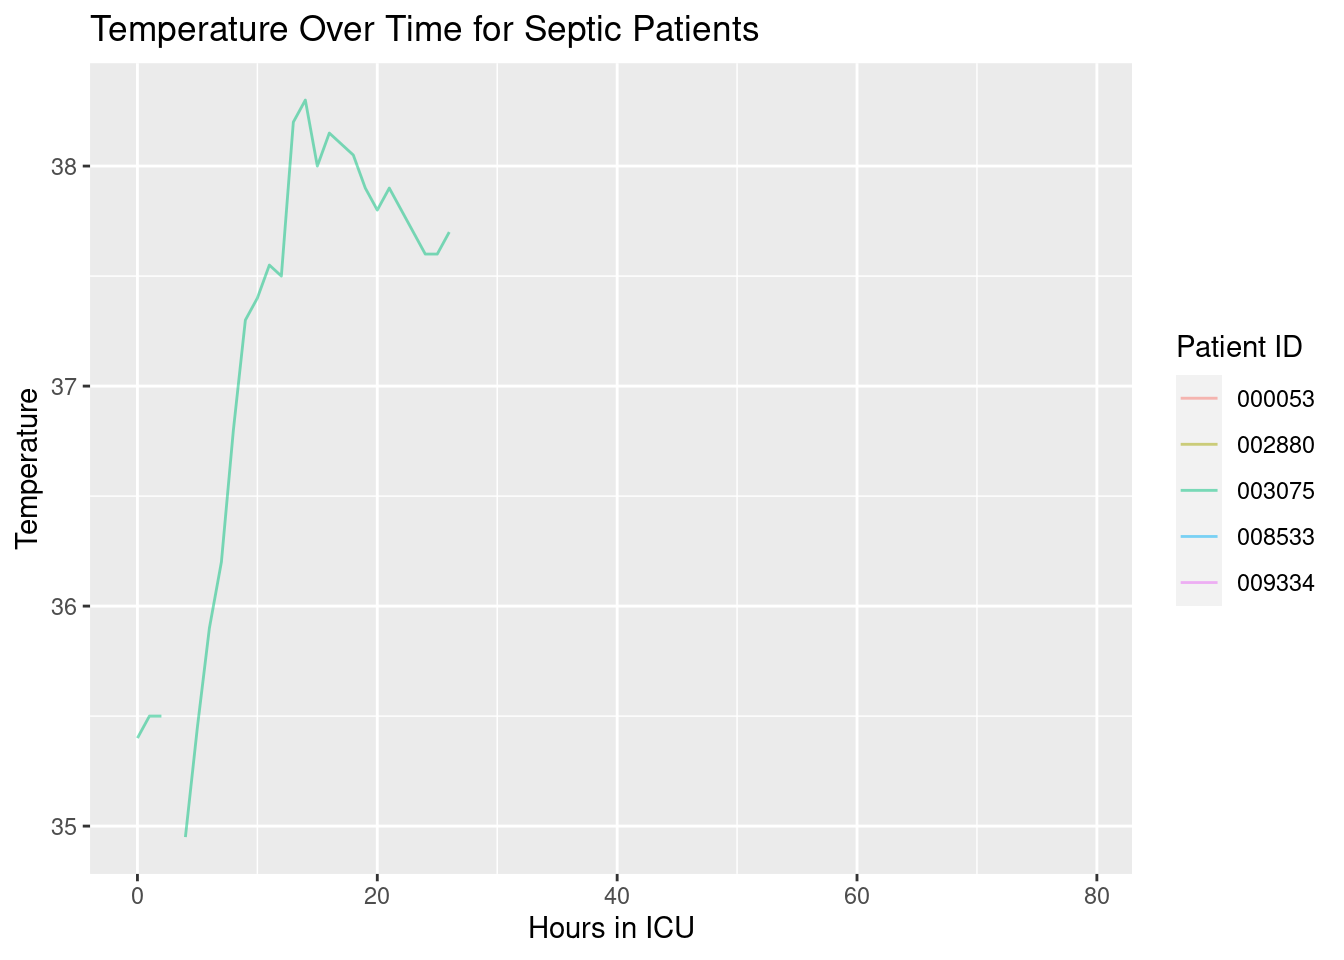
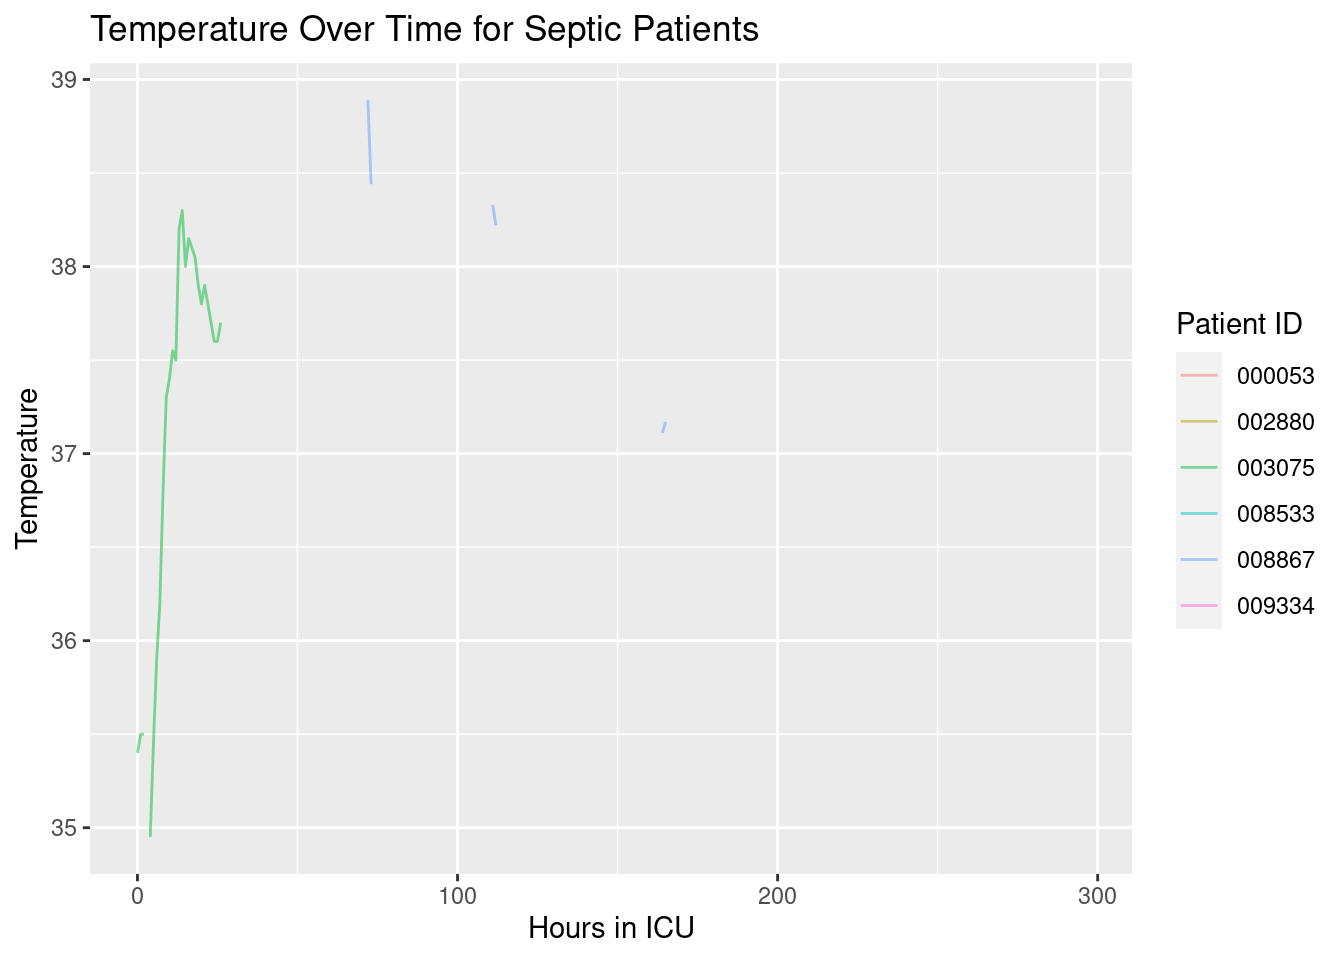
Updated report

diff --git a/icu-status-report.html b/icu-status-report.html
@@ -67,7 +67,7 @@ ul.task-list li input[type="checkbox"] {
 
 </header>
 
-<p>This report was produced at 2023-04-18 20:24:23.</p>
+<p>This report was produced at 2023-04-18 21:21:38.</p>
 <div class="cell">
 <div class="cell-output-display">
 <table class="table table-sm table-striped">
@@ -106,6 +106,12 @@ ul.task-list li input[type="checkbox"] {
 <td style="text-align: right;">19</td>
 </tr>
 <tr class="odd">
+<td style="text-align: left;">008867</td>
+<td style="text-align: right;">93</td>
+<td style="text-align: right;">37.5</td>
+<td style="text-align: right;">13</td>
+</tr>
+<tr class="even">
 <td style="text-align: left;">009334</td>
 <td style="text-align: right;">85</td>
 <td style="text-align: right;">NA</td>
@@ -412,8 +418,8 @@ ul.task-list li input[type="checkbox"] {
 <tr class="odd">
 <td style="text-align: left;">008867</td>
 <td style="text-align: right;">NA</td>
-<td style="text-align: right;">14</td>
-<td style="text-align: right;">-1</td>
+<td style="text-align: right;">2</td>
+<td style="text-align: right;">-3</td>
 </tr>
 <tr class="even">
 <td style="text-align: left;">009005</td>
